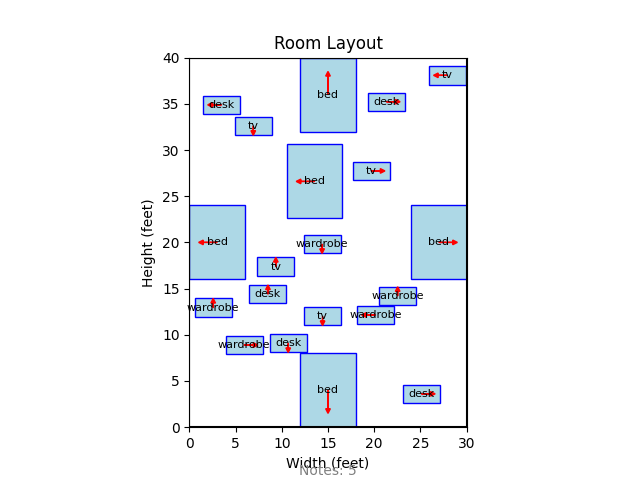
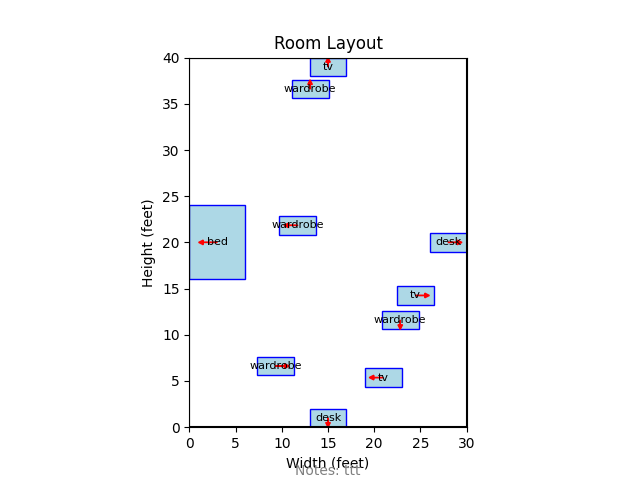
Update

diff --git a/server/index.js b/server/index.js
@@ -13,41 +13,43 @@ app.use(bodyParser.json());
 app.use('/images', express.static(path.join(__dirname, 'images')));
 
 app.post('/api/generate', (req, res) => {
-    const { bed, desk, tv, wardrobe, notes } = req.body;
-  
-    if (!bed || !desk || !tv || !wardrobe) {
-      return res.status(400).json({ error: 'Invalid input' });
-    }
-  
-    const pythonProcess = spawn('python', [
-      './placement_generation.py',
-      bed,
-      desk,
-      tv,
-      wardrobe,
-      notes
-    ]);
-  
-    let scriptOutput = '';
-  
-    pythonProcess.stdout.on('data', (data) => {
-      scriptOutput += data.toString();
-    });
-  
-    pythonProcess.stderr.on('data', (data) => {
-      console.error('Python script error:', data.toString());
-    });
-  
-    pythonProcess.on('close', (code) => {
-      console.log(`Python script exited with code ${code}`);
-      if (code !== 0) {
-        return res.status(500).json({ error: 'Python script failed' });
-      }
-  
-      const imagePath = scriptOutput.trim();
-      res.json({ imagePath });
-    });
+  const { bed, desk, tv, wardrobe, notes } = req.body;
+
+  const pythonProcess = spawn('python', [
+    'placement_generation.py',
+    bed,
+    desk,
+    tv,
+    wardrobe,
+    notes,
+  ]);
+
+  let scriptOutput = '';
+  let scriptError = '';
+
+  pythonProcess.stdout.on('data', (data) => {
+    const imagePath = data.toString().trim(); // 获取 Python 返回的路径
+    console.log('Image path from Python:', imagePath); // 调试打印路径
+    res.json({ imagePath }); // 返回路径给前端
+    scriptOutput += data.toString();
   });
+
+  pythonProcess.stderr.on('data', (data) => {
+    scriptError += data.toString();
+  });
+
+  pythonProcess.on('close', (code) => {
+    if (code !== 0 || scriptError) {
+      console.error('Python script error:', scriptError);
+      return res.status(500).json({ error: 'Python script execution failed' });
+    }   
+
+    const imagePath = scriptOutput.trim();
+    console.log('Image generated at:', imagePath);
+    res.json({ imagePath });
+  });
+});
+
   
 
 app.listen(PORT, () => {

diff --git a/src/GenerationPage.js b/src/GenerationPage.js
@@ -19,7 +19,8 @@ const GenerationPage = () => {
 
   const handleSubmit = (e) => {
     e.preventDefault();
-    console.log('Submitting form data:', formData); // 调试：检查表单数据
+    console.log('Fetching URL:', 'http://localhost:5000/api/generate');// 调试前端提交数据
+  
     fetch('http://localhost:5000/api/generate', {
       method: 'POST',
       headers: {
@@ -28,20 +29,22 @@ const GenerationPage = () => {
       body: JSON.stringify(formData),
     })
       .then((response) => {
-        console.log('Response status:', response.status); // 调试：检查响应状态
+        console.log('Response status:', response.status); // 检查响应状态码
         if (!response.ok) {
           throw new Error('Failed to fetch data');
         }
         return response.json();
       })
       .then((data) => {
-        console.log('Data received:', data); // 调试：检查后端返回的数据
+        console.log('Data received:', data); // 检查后端返回的数据
         navigate('/result', { state: { imagePath: data.imagePath } });
       })
       .catch((error) => {
-        console.error('Error during fetch:', error); // 调试：捕获错误
+        console.error('Error during fetch:', error.message); // 捕获请求错误
       });
   };
+  
+  
   
 
   return (

diff --git a/src/ResultPage.css b/src/ResultPage.css
@@ -1,0 +1,54 @@
+.result-container {
+    display: flex;
+    flex-direction: column;
+    align-items: center;
+    justify-content: center;
+    height: 100vh;
+    background-image: url('./assets/images/background.png');
+    background-size: cover;
+    background-position: center;
+    background-repeat: no-repeat;
+  }
+  
+  .back-button {
+    position: absolute;
+    top: 20px;
+    left: 20px;
+    padding: 10px 15px;
+    background-color: rgba(0, 123, 255, 0.8);
+    color: white;
+    border: none;
+    border-radius: 5px;
+    cursor: pointer;
+    box-shadow: 0 4px 6px rgba(0, 0, 0, 0.2);
+  }
+  
+  .back-button:hover {
+    background-color: rgba(0, 86, 179, 0.8);
+  }
+  
+  .result-content {
+    text-align: center;
+    background-color: rgba(255, 255, 255, 0.9);
+    padding: 20px;
+    border-radius: 10px;
+    box-shadow: 0 4px 6px rgba(0, 0, 0, 0.2);
+    max-width: 80%;
+  }
+  
+
+  .result-content h2 {
+    font-size: 2rem;
+    margin-bottom: 20px;
+    color: #333;
+  }
+  
+
+  .result-image {
+    max-width: 100%;
+    height: auto;
+    border: 1px solid #ccc;
+    border-radius: 10px;
+    box-shadow: 0 4px 8px rgba(0, 0, 0, 0.1);
+  }
+  

diff --git a/src/ResultPage.js b/src/ResultPage.js
@@ -1,24 +1,25 @@
 import React from 'react';
-import { useLocation, useNavigate } from 'react-router-dom';
+import './ResultPage.css';
 
 const ResultPage = () => {
-  const location = useLocation();
-  const navigate = useNavigate();
-  const { imagePath } = location.state || {};
-
-  if (!imagePath) {
-    return <p>Not received. Try again.</p>;
-  }
-
-  console.log('Image path:', imagePath);
   return (
     <div className="result-container">
-      <button onClick={() => navigate(-1)}>Back</button>
-      <h1>Layout Design</h1>
-      <img src={imagePath} alt="Generated Layout" className="result-image" />
+      <button className="back-button" onClick={() => window.history.back()}>
+        Back
+      </button>
+      <div className="result-content">
+        <h2>Layout Design</h2>
+        <img
+          src="/room_layout.png"
+          alt="Layout Design"
+          className="result-image"
+        />
+      </div>
     </div>
   );
 };
 
 export default ResultPage;
+
+
 

diff --git a/server/placement_generation.py b/server/placement_generation.py
@@ -1,5 +1,5 @@
 import sys
-import json
+import os
 import matplotlib.pyplot as plt
 import random
 
@@ -76,7 +76,39 @@ def generate_room_layout(furniture_counts):
 
     return furniture_list
 
-def plot_room_layout(furniture_list, notes):
+def plot_room_layout(furniture_list, notes, output_path):
+    output_dir = os.path.dirname(output_path)
+    if not os.path.exists(output_dir):
+        os.makedirs(output_dir)
+
+    fig, ax = plt.subplots()
+    ax.set_xlim(0, ROOM_WIDTH)
+    ax.set_ylim(0, ROOM_HEIGHT)
+    ax.set_aspect('equal')
+    ax.set_title("Room Layout")
+    ax.set_xlabel("Width (feet)")
+    ax.set_ylabel("Height (feet)")
+
+    ax.plot([0, ROOM_WIDTH, ROOM_WIDTH, 0, 0], [0, 0, ROOM_HEIGHT, ROOM_HEIGHT, 0], color='black')
+
+    for furniture in furniture_list:
+        x, y = furniture.x, furniture.y
+        width, height = furniture.width, furniture.height
+        rect = plt.Rectangle((x - width / 2, y - height / 2), width, height, edgecolor='blue', facecolor='lightblue')
+        ax.add_patch(rect)
+        ax.text(x, y, furniture.name, ha='center', va='center', fontsize=8)
+
+    if notes:
+        ax.text(0.5, -0.1, f"Notes: {notes}", transform=ax.transAxes, ha='center', va='top', fontsize=10, color='gray')
+
+    try:
+        plt.savefig(output_path)
+        print(f"Image saved at: {output_path}")
+    except Exception as e:
+        print(f"Error saving image: {e}", file=sys.stderr)
+    finally:
+        plt.close()
+
     fig, ax = plt.subplots()
     ax.set_xlim(0, ROOM_WIDTH)
     ax.set_ylim(0, ROOM_HEIGHT)
@@ -106,7 +138,7 @@ def plot_room_layout(furniture_list, notes):
     if notes:
         ax.text(0.5, -0.1, f"Notes: {notes}", transform=ax.transAxes, ha='center', va='top', fontsize=10, color='gray')
 
-    plt.savefig('room_layout.png')
+    plt.savefig(output_path)
     plt.close()
 
 def main():
@@ -124,11 +156,9 @@ def main():
         "wardrobe": wardrobe
     }
 
+    output_path = os.path.join("..", "public", "room_layout.png")
     furniture_list = generate_room_layout(furniture_counts)
-    plot_room_layout(furniture_list, notes)
-
-    print("room_layout.png")
+    plot_room_layout(furniture_list, notes, output_path)
 
 if __name__ == "__main__":
     main()
-
